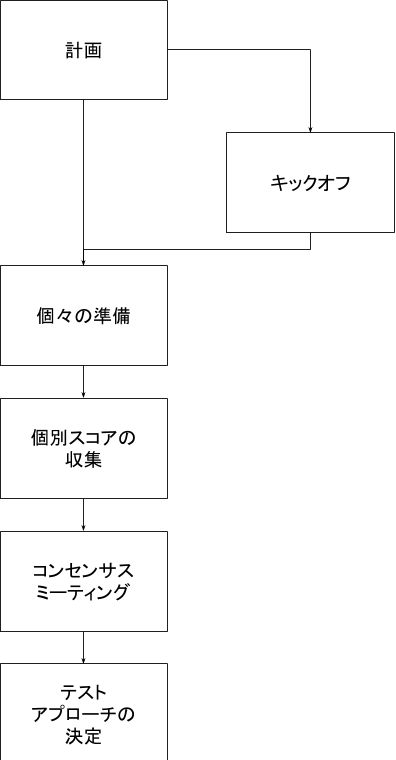
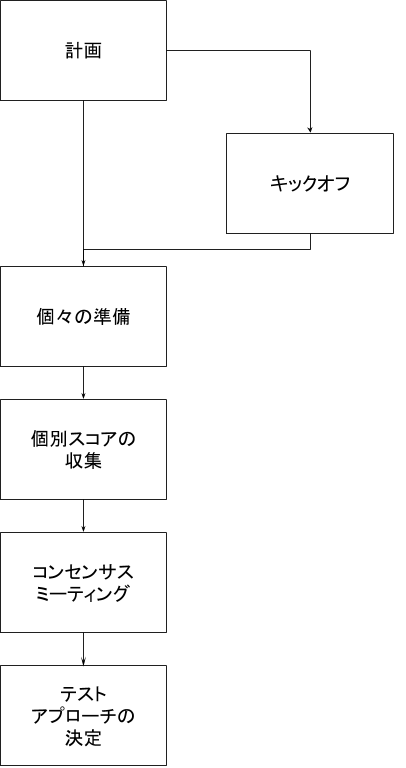
Updates 7.ThePRISMAProcess.md
Auto commit by GitBook Editor

diff --git a/7.ThePRISMAProcess.md b/7.ThePRISMAProcess.md
@@ -2,7 +2,7 @@
 
 このセクションでは、PRISMAメソッドを使用して製品のリスクアセスメントを実施する際のプロセスに関して詳細に説明していきます。
 
-
+![](/assets/Figure 3- PRISMA process overview.png)
 
 図3：PRISMAプロセスの概要
 
